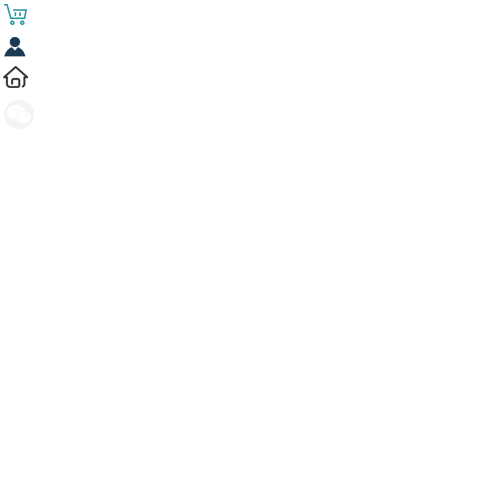
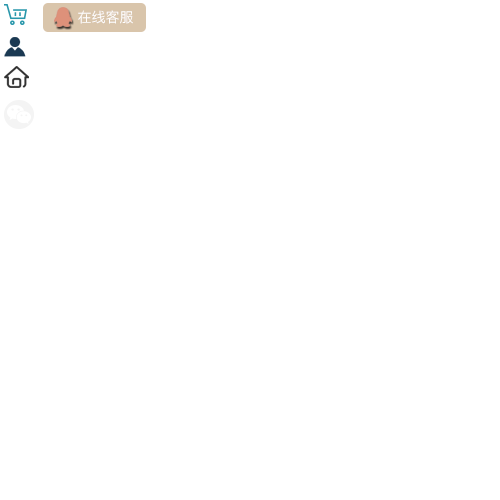
insert file by wangyufei

Changed region(s): [[0.06, 0.0, 0.3, 0.09], [0.0, 0.12, 0.06, 0.18]]

diff --git a/css/gloable.css b/css/gloable.css
@@ -18,7 +18,7 @@ label,summary{cursor:default;}
 a,button{cursor:pointer;}
 h1,h2,h3,h4,h5,h6,em,strong,b{font-weight:bold;}
 del,ins,u,s,a,a:hover{text-decoration:none;}
-body,textarea,input,button,select,keygen,legend{font:15px/1.5 "Microsoft YaHei",simsun,tahoma,arial,宋体,sans-serif;color:#333;outline:0;}
+body,textarea,input,button,select,keygen,legend{font:14px/1.5 "Microsoft YaHei",simsun,tahoma,arial,宋体,sans-serif;color:#333;outline:0;}
 body{background:#fff;}
 a,a:hover{color:#333;}
 
@@ -79,6 +79,7 @@ a,a:hover{color:#333;}
 .g-hd{
 	height: 80px;
 	background: url(../images/header_bg.png) repeat-x;
+	overflow: hidden;
 }
 
 /* 导航 */
@@ -144,6 +145,34 @@ a,a:hover{color:#333;}
  * 底部样式
  */
 .g-ft{
-	
+	height: 47px;
+	line-height: 47px;
+	background-color: #313640;
+	color: #ffffff;
+	font-size: 12px;
 }
-
+.g-ft a{
+	color: #ffffff;
+	font-size: 12px;
+}
+.g-ft a.kefu{
+	display: inline-block;
+	width: 103px;
+	height: 29px;
+	background-position: -43px -3px;
+	vertical-align: middle;
+	margin-left: 20px;
+}
+.g-ft .weixin .wx-icon{
+	display: inline-block;
+	width: 30px;
+	height: 29px;
+	background-position: -4px -100px;
+	margin-top: 9px;
+}
+.g-ft .copy{
+	line-height: normal;
+	margin-top: 7px;
+	margin-right: 20px;
+	text-align: right;
+}

diff --git a/html/index.html b/html/index.html
@@ -47,8 +47,22 @@
 
 <!-- 底部 -->
 <div class="g-ft">
-	<div class="g-bd">
-		
+	<div class="g-bd f-cb">
+		<div class="f-fl">
+			<a href="#">5A介绍</a>&nbsp;|&nbsp;<a href="#">联系我们</a>&nbsp;<span>Tel:400-018-5915</span><a class="icon kefu" href="http://wpa.qq.com/msgrd?v=3&amp;uin=1217531658&amp;site=qq&amp;menu=yes"></a>
+		</div>
+		<div class="f-fr">
+			<div class="weixin f-fr">
+				<span class="icon wx-icon"></span>
+				<div class="wx-box" style="display:none">
+					<img src="../images/wx_img.jpg" height="121" width="121">
+				</div>
+			</div>
+			<div class="copy f-fl">
+				<p>5A招聘网版权所有</p>
+				<p>&copy;2014-2015  京ICP备14055371号-1</p>
+			</div>
+		</div>
 	</div>
 </div>
 <!-- /底部 -->
